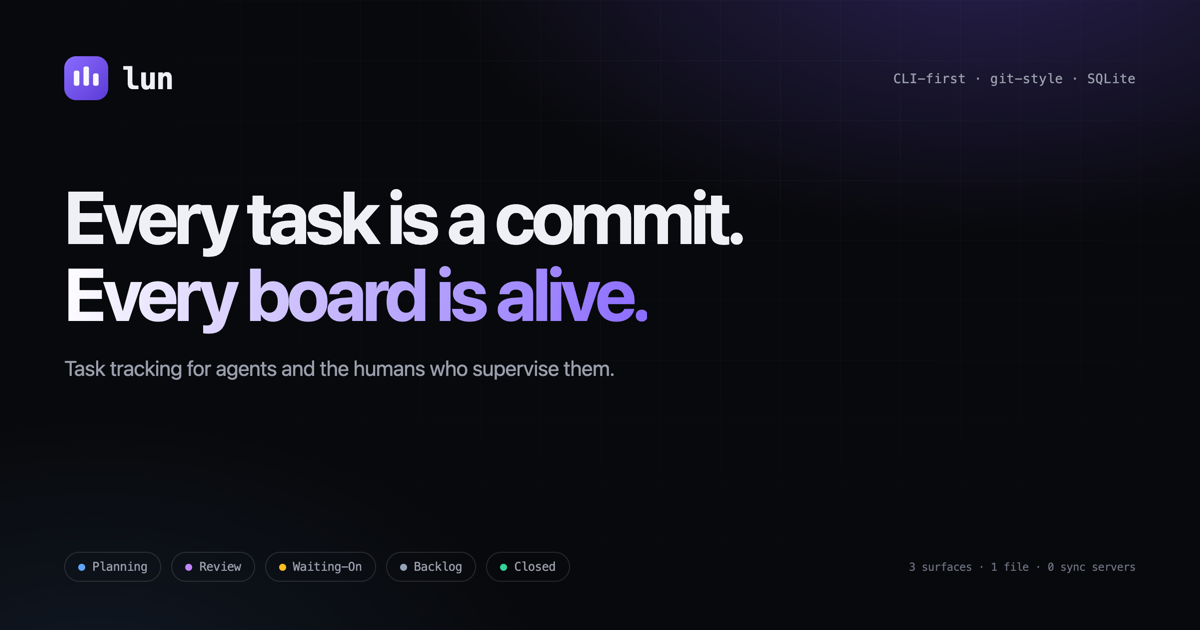
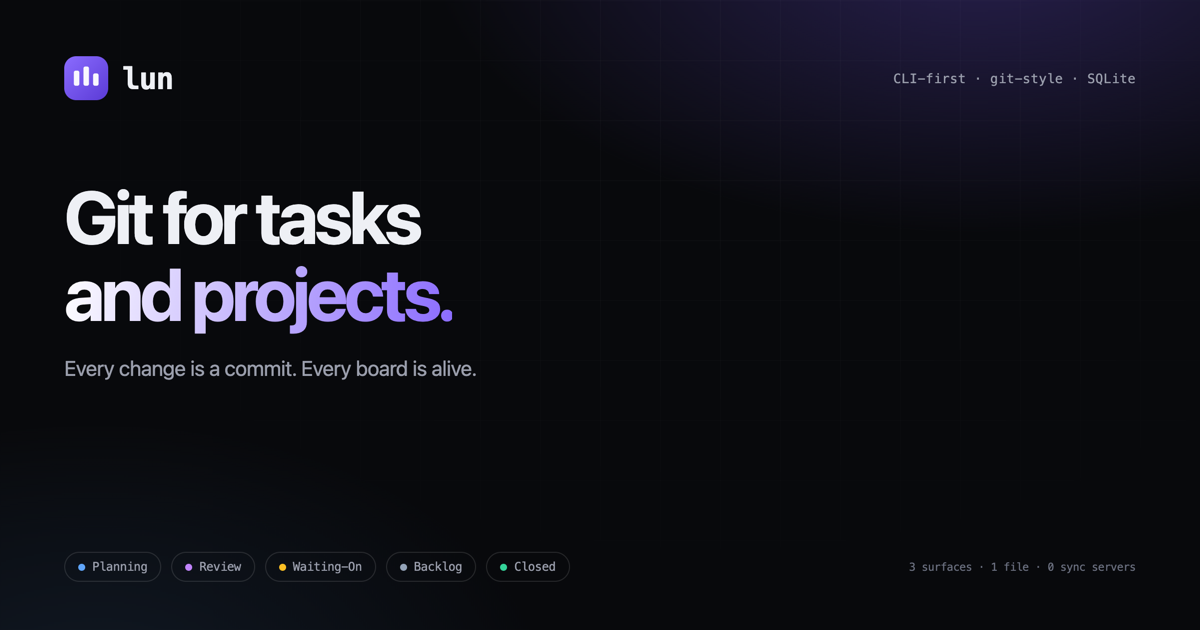
Lead the site with 'git for tasks and projects'
Use the one-line pitch in the hero, title, meta tags and social card.

Changed region(s): [[0.0308, 0.3016, 0.6167, 0.5429], [0.0308, 0.573, 0.5242, 0.6032]]

diff --git a/site/index.html b/site/index.html
@@ -3,22 +3,22 @@
 <head>
 <meta charset="UTF-8">
 <meta name="viewport" content="width=device-width, initial-scale=1.0">
-<title>lun — task tracking, version controlled</title>
-<meta name="description" content="lun is a low-dependency, CLI-first task and project tracker for macOS. Git-style history for every task, a web kanban board and phone PWA, and a full-screen TUI — all backed by one SQLite file.">
+<title>lun — git for tasks and projects</title>
+<meta name="description" content="lun is git for tasks and projects: a low-dependency, CLI-first task tracker for macOS with git-style history, a web kanban board and phone PWA, and a full-screen TUI — all backed by one SQLite file.">
 <meta name="theme-color" content="#08090c">
 <link rel="canonical" href="https://coltonkawamura.github.io/lun/">
 <link rel="icon" href="assets/mark.svg" type="image/svg+xml">
 <link rel="apple-touch-icon" href="assets/icon-192.png">
 <meta property="og:type" content="website">
-<meta property="og:title" content="lun — task tracking, version controlled">
-<meta property="og:description" content="A CLI-first, git-style task tracker for agents and the humans who supervise them. One SQLite file, three surfaces: shell, browser and TUI.">
+<meta property="og:title" content="lun — git for tasks and projects">
+<meta property="og:description" content="Git for tasks and projects. Every change is a commit, and the same SQLite board backs the CLI, the browser and the TUI.">
 <meta property="og:url" content="https://coltonkawamura.github.io/lun/">
 <meta property="og:image" content="https://coltonkawamura.github.io/lun/assets/og.png">
 <meta property="og:image:width" content="1200">
 <meta property="og:image:height" content="630">
 <meta name="twitter:card" content="summary_large_image">
-<meta name="twitter:title" content="lun — task tracking, version controlled">
-<meta name="twitter:description" content="A CLI-first, git-style task tracker for agents and the humans who supervise them.">
+<meta name="twitter:title" content="lun — git for tasks and projects">
+<meta name="twitter:description" content="Git for tasks and projects. Every change is a commit, and the same SQLite board backs the CLI, the browser and the TUI.">
 <meta name="twitter:image" content="https://coltonkawamura.github.io/lun/assets/og.png">
 <link rel="stylesheet" href="styles.css">
 </head>
@@ -55,7 +55,7 @@
     <div class="wrap hero-grid">
       <div class="hero-copy">
         <p class="eyebrow"><span class="pulse" aria-hidden="true"></span> CLI-first task tracking for macOS</p>
-        <h1>Every task is a commit.<br><span class="grad">Every board is alive.</span></h1>
+        <h1>Git for tasks<br><span class="grad">and projects.</span></h1>
         <p class="lede">lun is a low-dependency task and project tracker built for agents and the humans who supervise them. File work from the shell, then watch the same tasks move across a real kanban board — in the browser, on your phone, or in the terminal.</p>
         <div class="hero-cta">
           <a class="btn primary" href="#install">Install lun</a>
